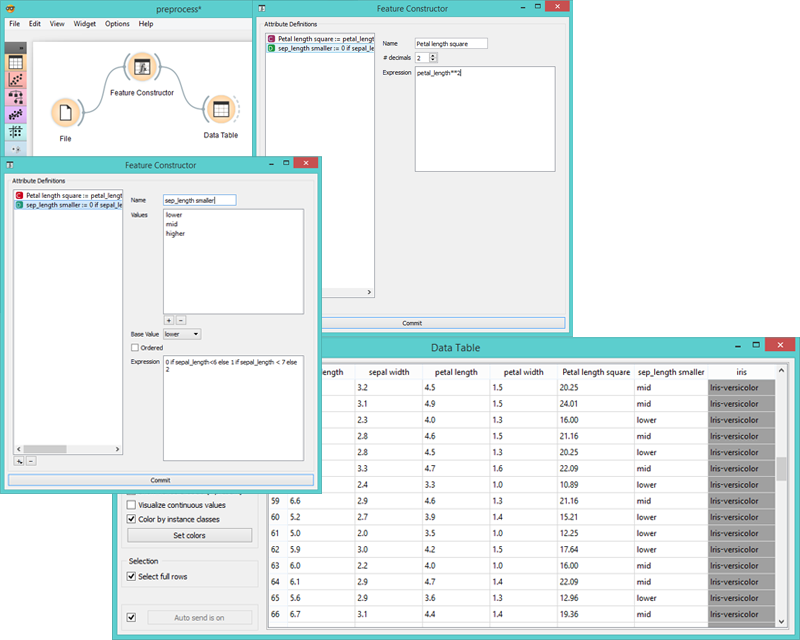
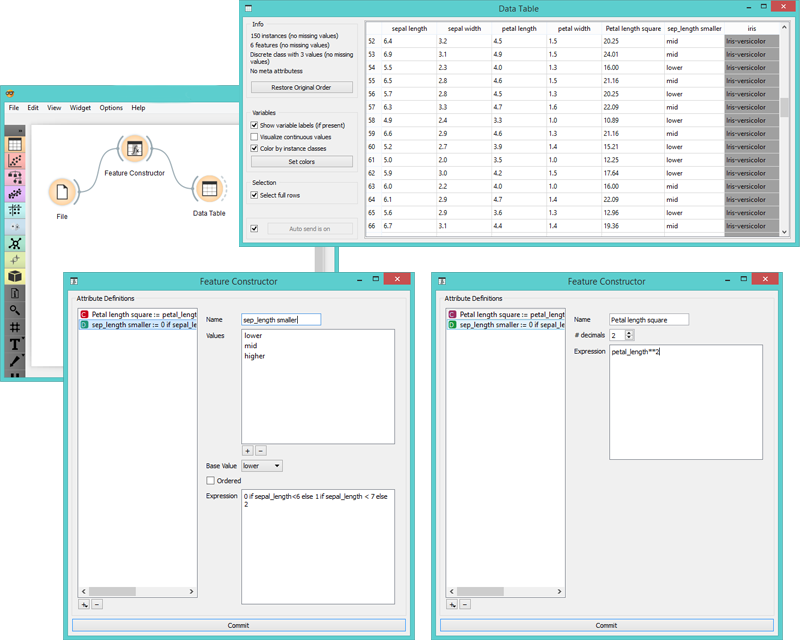
Added zoo-only-images.tab file

diff --git a/doc/widgets/data/featureconstructor.md b/doc/widgets/data/featureconstructor.md
@@ -50,7 +50,7 @@ Examples
 
 With **Feature Constructor** you can easily adjust or combine existing features into new ones. Below we have added one new continuous and one new discrete feature. Notice that we use an underscore for the feature name (e.g. petal_length). For the continuous feature we squared the existing *petal length* value, while we used *lower than* for the discrete one.
 
-![image](images/feature-constructor-example.png)
+<img src="images/feature-constructor-example.png" alt="image" width="400">
 
 Hints
 -----
